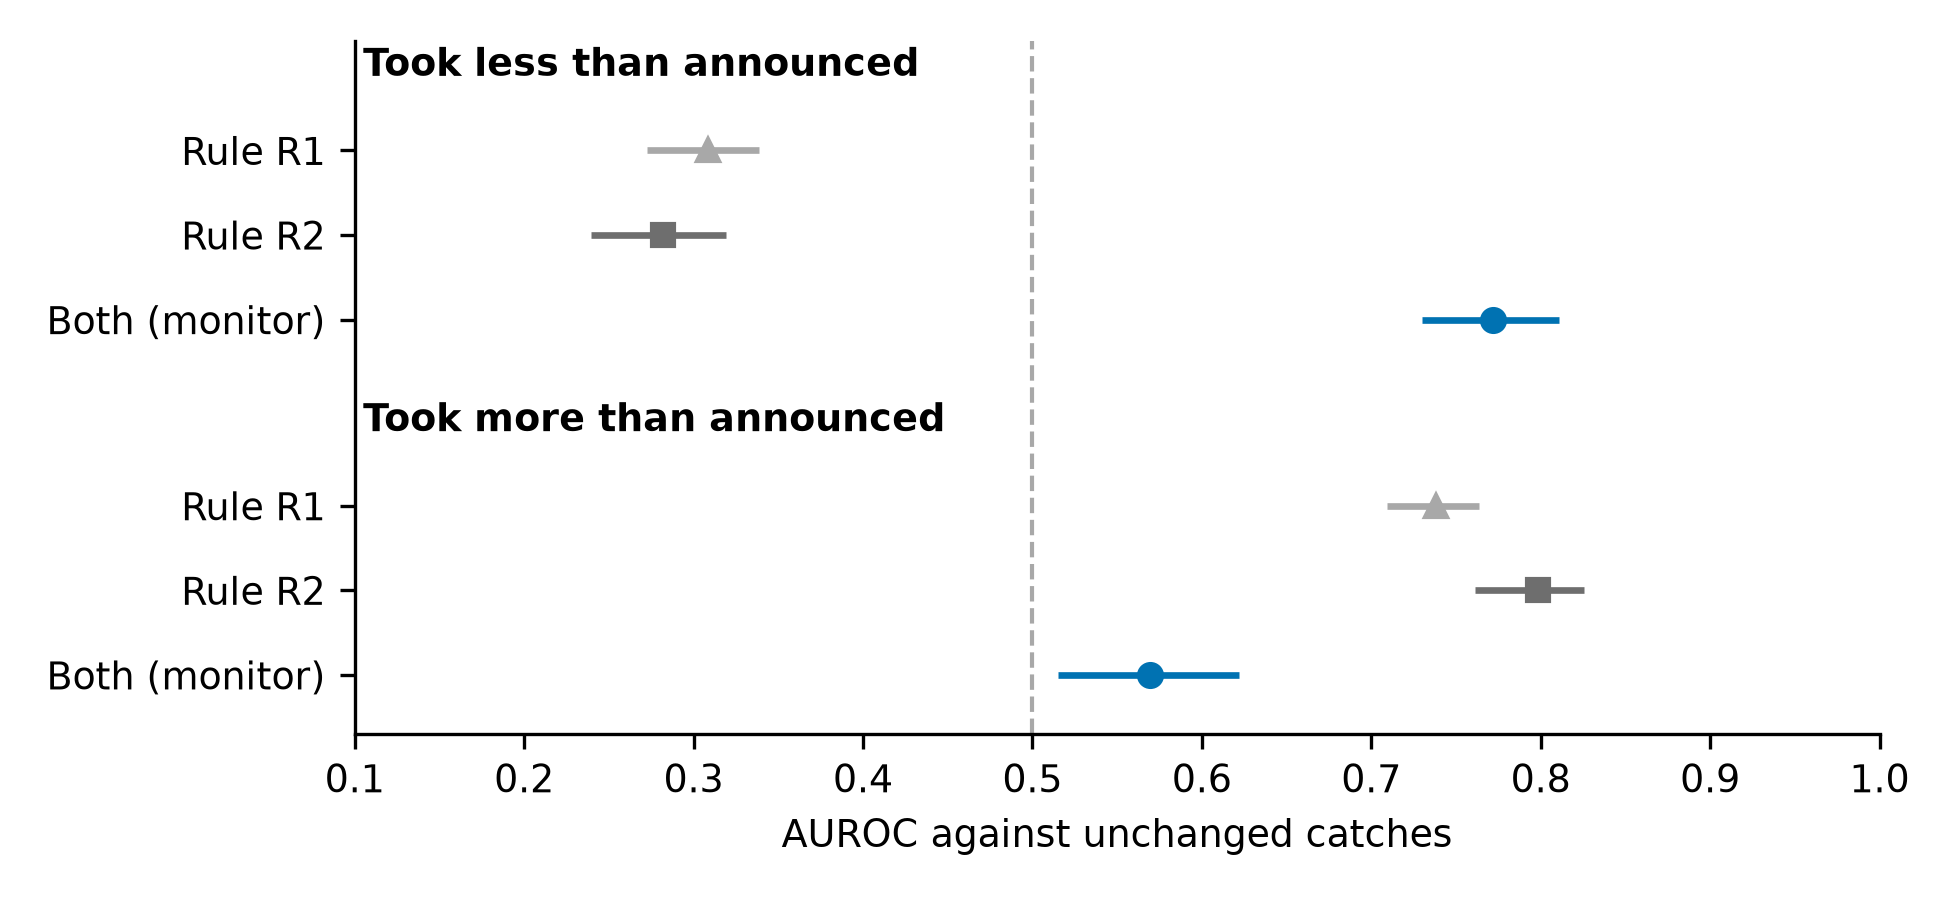
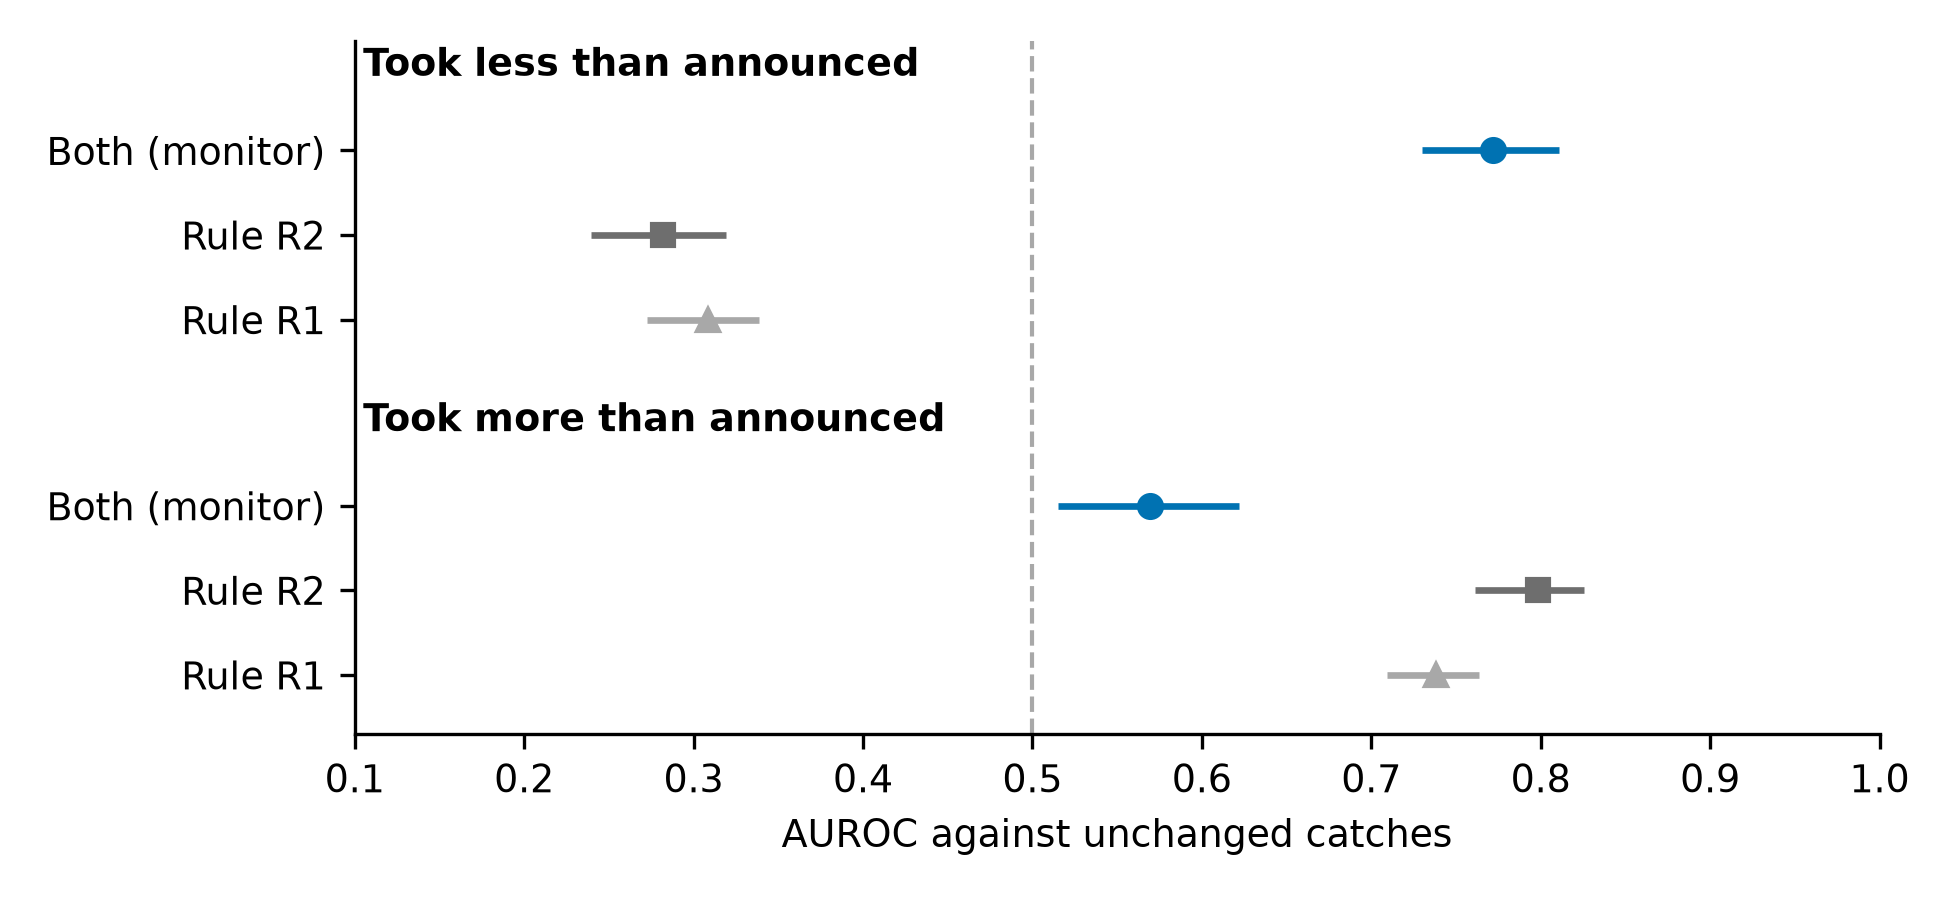
Fix Table 2 note (C1, C2 definitions) and order Figure 2 rows Both, R2, R1

diff --git a/scripts/make_figures.py b/scripts/make_figures.py
@@ -284,10 +284,9 @@ def render_tables(data: dict) -> str:
         "and extras.json. Registered results only.\n\n"
         "## Table 1\n\nBoth minus Actions-only by run. Breaks are positive cases (Fishing: any "
         "change from the announcement).\n\n" + "\n".join(t1) + "\n\n## Table 2\n\n"
-        "Both minus the comparison view (S1 Own-only, S2 Freshness, S3 counting rule) and Both "
-        "minus the combination (C1, C2). Holm p-values are the stored ones.\n\n"
-        + "\n".join(t2)
-        + "\n"
+        "S1 to S3 are Both minus the named view (S1 Own-only, S2 Freshness, S3 counting rule). "
+        "C1 is the combination minus Both; C2 is the combination minus the counting rule. "
+        "Holm p-values are the stored ones.\n\n" + "\n".join(t2) + "\n"
     )
 
 
@@ -343,7 +342,7 @@ def fig2(data: dict, stem: Path) -> None:
     ticks, labels = [], []
     y = 0.0
     for key, name in reversed(DIRECTIONS):
-        for m, mname in METHODS:
+        for m, mname in reversed(METHODS):
             interval(ax, y, data["figure2"][key][m], colors[m], markers[m])
             ticks.append(y)
             labels.append(mname)

diff --git a/results/report_tables.md b/results/report_tables.md
@@ -14,7 +14,7 @@ Both minus Actions-only by run. Breaks are positive cases (Fishing: any change f
 
 ## Table 2
 
-Both minus the comparison view (S1 Own-only, S2 Freshness, S3 counting rule) and Both minus the combination (C1, C2). Holm p-values are the stored ones.
+S1 to S3 are Both minus the named view (S1 Own-only, S2 Freshness, S3 counting rule). C1 is the combination minus Both; C2 is the combination minus the counting rule. Holm p-values are the stored ones.
 
 | Run | Contrast | Difference | One-sided 5th percentile | Holm p |
 |---|---|---|---|---|
